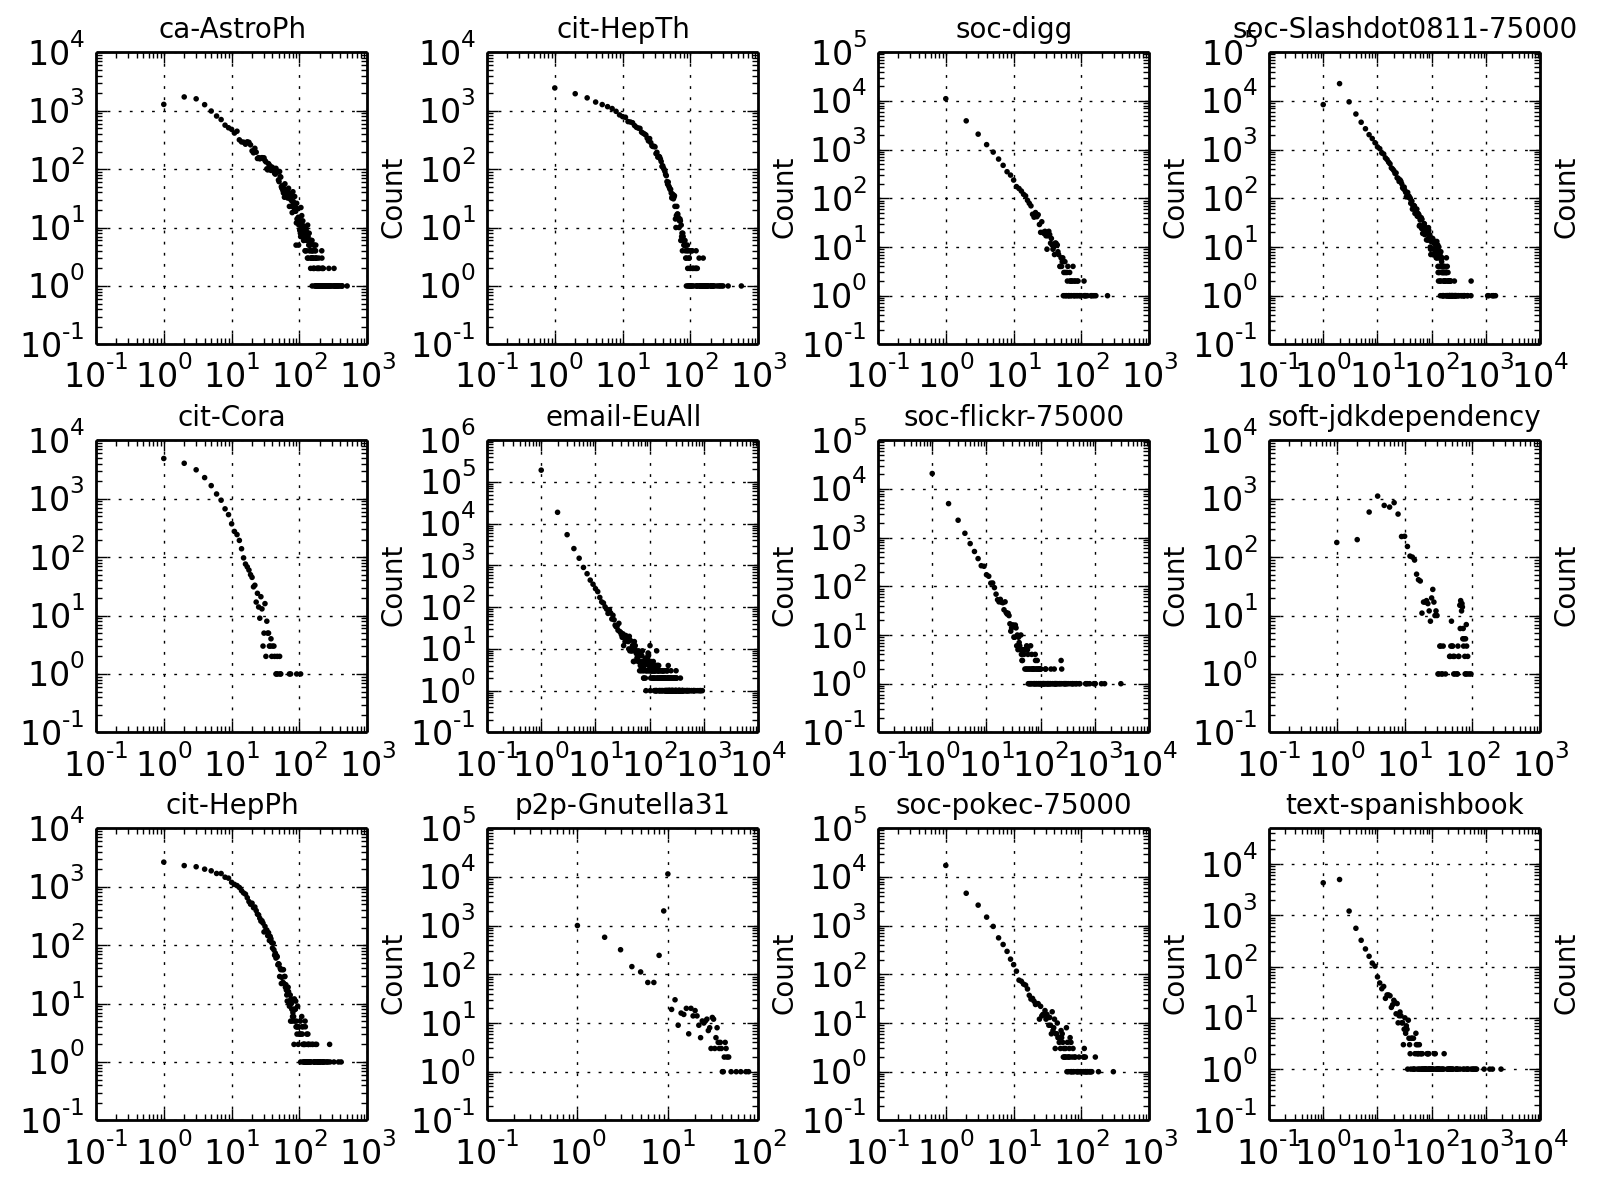
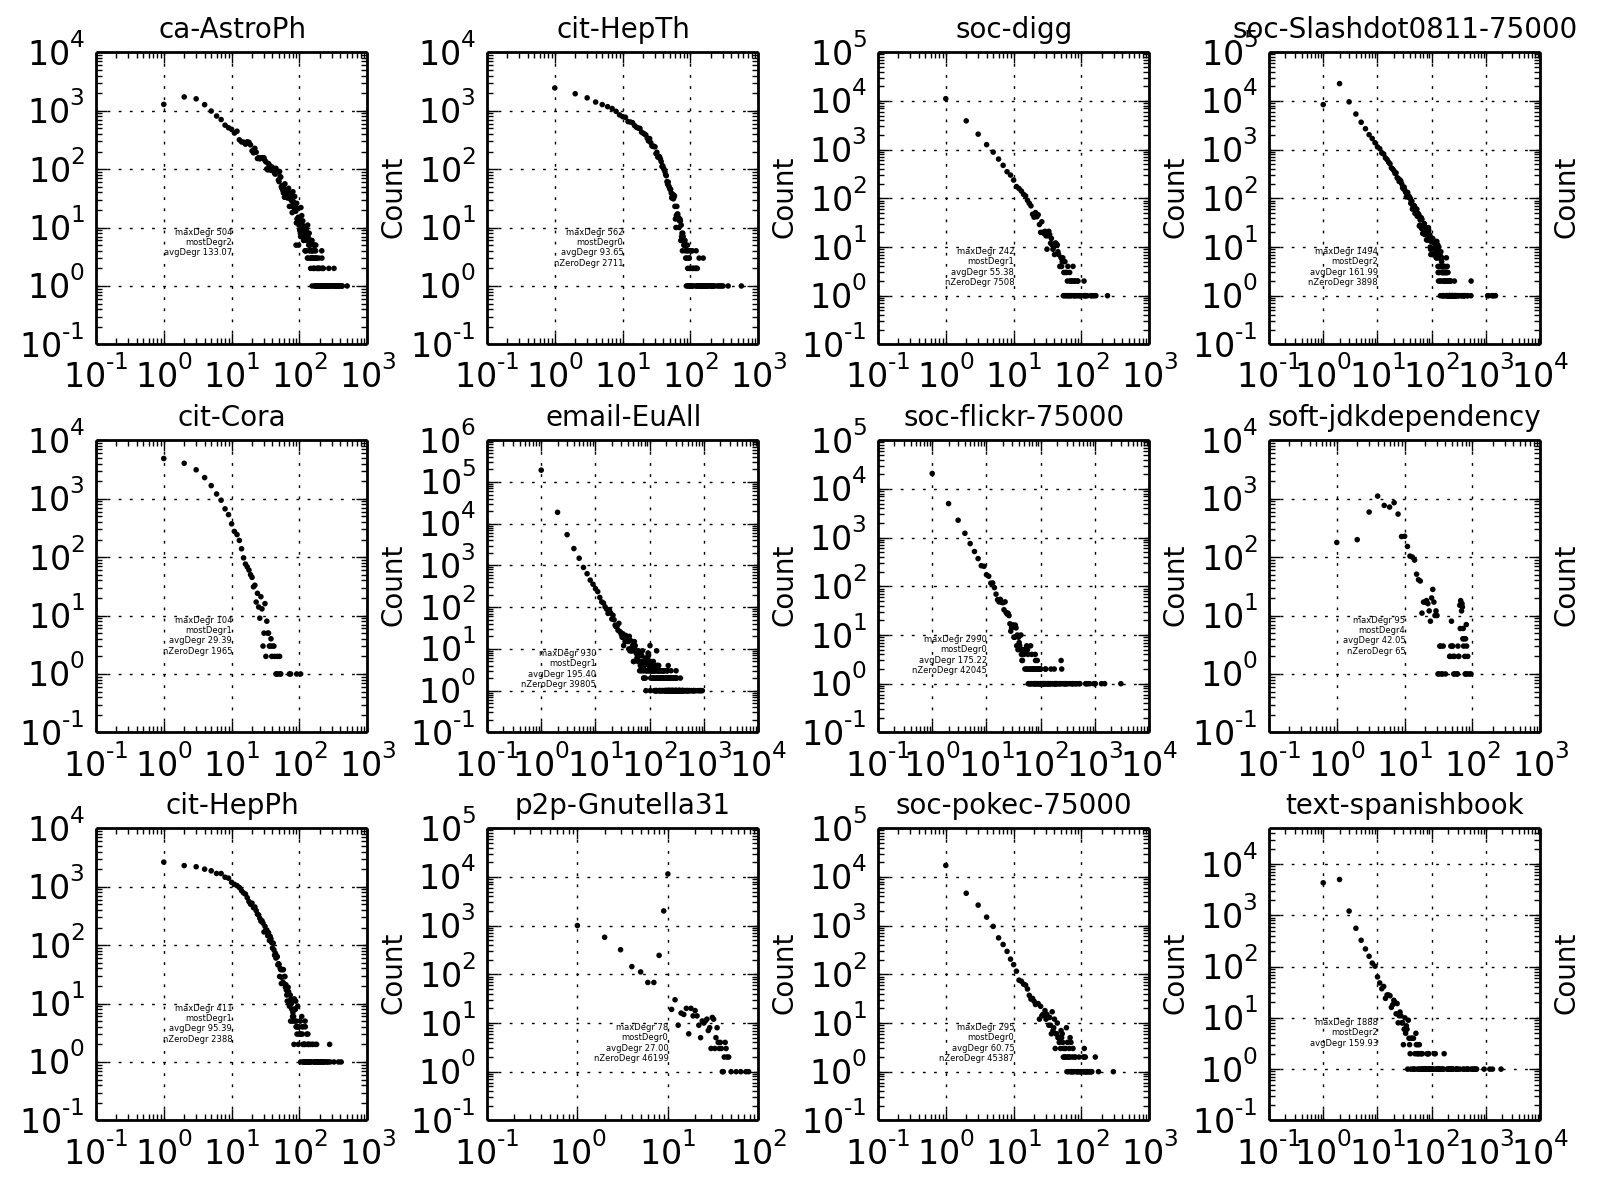
add data colloection and analysis

diff --git a/lib/plotAll.py b/lib/plotAll.py
@@ -18,6 +18,31 @@ def isDirected(name):
  			return True
  	return False
 
+def calDegreeStat(degree, count):
+	#find max degree
+	mdegree = max(degree)
+	#find degree with most count
+	indMCount = count.index(max(count))
+	#calculate average degree
+	avgDegree = float(sum(degree))/float(len(degree))
+	#calculate the zero degree
+	res = "maxDegr %d\nmostDegr%d\navgDegr %.2f"\
+	%(mdegree, degree[indMCount], avgDegree)
+	if 0 in degree:
+		res = "%s \nnZeroDegr %d"%(res, count[degree.index(0)])
+	#print res
+	return res
+
+def calStatComp(comp, count):
+	if not comp:
+		return None 
+	size = sum(count)
+	mcomp = max(comp)
+	res = "compSize %d\nmaxComp%d\n"\
+	%(size, mcomp)
+	return res
+
+
 def plotDegree(dirs, path1, path2, plt, fig, ax):
 	ox = 1
 	oy = 1
@@ -40,9 +65,11 @@ def plotDegree(dirs, path1, path2, plt, fig, ax):
 		for key in od:
 			x.append(key)
 			y.append(lists[key])
+		msg = calDegreeStat(x,y)
 		#print x
 		#print y
-		renderScatter(x, y, 'Degree distribution', 'Degree', 'Count', thisDir[7:-4], ox-1, oy-1, plt, fig, ax)
+		renderScatter(x, y, 'Degree distribution', 'Degree', 'Count', \
+			thisDir[7:-4], ox-1, oy-1, plt, fig, ax, message = msg)
 		if ox == 5:
 			ox = 1
 			oy = oy + 1
@@ -77,7 +104,10 @@ def plotIndeg(dirs, path1, path2, plt, fig, ax):
 			y.append(lists[key])
 		#print x
 		#print y
-		renderScatter(x, y, 'IndDegree distribution', 'indegree', 'Count', thisDir[7:-4], ox-1, oy-1, plt, fig, ax)
+		#print thisDir
+		msg = calDegreeStat(x, y)
+		renderScatter(x, y, 'IndDegree distribution', 'indegree', 'Count', \
+			thisDir[7:-4], ox-1, oy-1, plt, fig, ax, message=msg)
 		if ox == 3:
 			ox = 1
 			oy = oy + 1
@@ -112,7 +142,9 @@ def plotOutdeg(dirs, path1, path2, plt, fig, ax):
 			y.append(lists[key])
 		#print x
 		#print y
-		renderScatter(x, y, 'Outdegree distribution', 'OutDegree', 'Count', thisDir[7:-4], ox-1, oy-1, plt, fig, ax)
+		msg = calDegreeStat(x, y)
+		renderScatter(x, y, 'Outdegree distribution', 'OutDegree', \
+			'Count', thisDir[7:-4], ox-1, oy-1, plt, fig, ax, message=msg)
 		if ox == 3:
 			ox = 1
 			oy = oy + 1
@@ -138,7 +170,13 @@ def plotComp(dirs, path1, path2, plt, fig, ax):
 		for key in od:
 			x.append(key)
 			y.append(alists[key])
-		renderScatter(x, y, 'kcore', 'kcore', 'Count', thisDir[7:-4], ox-1, oy-1, plt, fig, ax, False)
+		msg = calStatComp(x, y)
+		if msg is not None:
+			renderScatter(x, y, 'kcore', 'kcore', 'Count', thisDir[7:-4], ox-1,\
+		 oy-1, plt, fig, ax, False, message=msg, annoX = max(x), annoY = max(y))
+		else:
+			renderScatter(x, y, 'kcore', 'kcore', 'Count', thisDir[7:-4], ox-1,\
+		 oy-1, plt, fig, ax, False)
 		if ox == 5:
 			ox = 1
 			oy = oy + 1
@@ -163,10 +201,11 @@ def plotPagerank(dirs, path1, path2, plt, fig, ax):
 				y.append(float(words[1]))
 		x = [i+1 for i in range(len(y))]
 		y = sorted(y, reverse=True)
-		print len(y)
+		#print len(y)
 		#print x
 		#print y
-		render(x, y, 'pagerank', 'pagerank', 'Count', thisDir[7:-4], ox-1, oy-1, plt, fig, ax, False)
+		render(x, y, 'pagerank', 'pagerank', 'Count', thisDir[7:-4], ox-1,\
+		 oy-1, plt, fig, ax, False)
 		if ox == 5:
 			ox = 1
 			oy = oy + 1
@@ -175,14 +214,24 @@ def plotPagerank(dirs, path1, path2, plt, fig, ax):
 		ff.close()	
 
 
+def calCorr(x , y):
+	total = 0
+	xx = []
+	yy = []
+	for tid in x.keys():
+		xx.append(numpy.abs(x[tid]))
+		yy.append(numpy.abs(y[tid]))
+	return numpy.abs(numpy.corrcoef(xx, yy)[0][1])
+
+
 #draw out eigen value
 def plotEigen(dirs, path1, path2, plt, fig, ax):
 	ox = 1
 	oy = 1
 	for thisDir in dirs:
-		x = []
-		y = []
-		t = []
+		vectors = []
+		x = {}
+		vt = -1;
 		print join(path1, thisDir, path2)
 		ff = open(join(path1, thisDir, path2))
 		#name of the png
@@ -190,16 +239,46 @@ def plotEigen(dirs, path1, path2, plt, fig, ax):
 		for line in ff.readlines():
 			line = line.strip()
 			words = line.split(",")
-			if(len(words) > 2):
-				x.append(float(words[0]))
-				y.append(float(words[1]))
-		#for i in range(len(t)):
-		#	for j in range(len(t)):
-		#		x.append(t[i])
-		#		y.append(t[j])
-		#print x
-		#print y
-		renderScatter(x, y, 'eigenVector', 'eigenVector', 'pair', thisDir[7:-4], ox-1, oy-1, plt, fig, ax, False)
+			if len(words) == 3:
+				tid = words[0];
+				tcol = int(words[1])
+				tval = float(words[2])
+				if tcol is not vt:
+					vt = tcol
+					if x:
+						vectors.append(x.copy())
+					x = {}
+				x[tid] = tval
+		vectors.append(x.copy())
+		minTotal = 100000000
+		#print len(vectors)
+		for i in range(len(vectors)):
+			xi = vectors[i]
+			#print xi
+			#raw_input()
+			for j in range(i+1, len(vectors)):
+				xj = vectors[j]
+				#print xj 
+				#raw_input()
+				total = calCorr(xi, xj)
+				#print numpy.corrcoef(xi,xj)
+				#total = numpy.corrcoef(xi,xj)[0][1]
+				#print total
+				if total < minTotal:
+					minTotal = total
+					mx = xi
+					my = xj
+		#for the test
+		#mx = vectors[1]
+		#my = vectors[2]
+		xx = []
+		yy = []
+		for tid in mx.keys():
+			#if mx[tid] < 0.2 and my[tid] < 0.2:
+			xx.append(mx[tid])
+			yy.append(my[tid])
+		renderScatter(xx, yy, 'eigenVector', 'eigenVector', 'pair', \
+			thisDir[7:-4], ox-1, oy-1, plt, fig, ax, False, False)
 		if ox == 5:
 			ox = 1
 			oy = oy + 1
@@ -240,9 +319,8 @@ def mergeList(oriList):
 def render(x, y, title, xlabel, ylabel, fileName, subX, subY, plt, fig, ax, setFlag = True):
 	x = numpy.array(x)
 	y = numpy.array(y)
-
-	print subX
-	print subY
+	#print subX
+	#print subY
 	ax[subX, subY].set_xscale("log")
 	ax[subX, subY].set_yscale("log")
 	#ax[subX, subY].yaxis.tick_right()
@@ -261,14 +339,17 @@ def render(x, y, title, xlabel, ylabel, fileName, subX, subY, plt, fig, ax, setF
 
 
 #plot the result
-def renderScatter(x, y, title, xlabel, ylabel, fileName, subX, subY, plt, fig, ax, setFlag = True):
+def renderScatter(x, y, title, xlabel, ylabel, fileName, subX,\
+ subY, plt, fig, ax, setFlag = True, logScale = True, message = None, \
+ annoX=10, annoY=10):
 	x = numpy.array(x)
 	y = numpy.array(y)
 
 	#print subX
 	#print subY
-	ax[subX, subY].set_xscale("log")
-	ax[subX, subY].set_yscale("log")
+	if logScale:
+		ax[subX, subY].set_xscale("log")
+		ax[subX, subY].set_yscale("log")
 	#ax[subX, subY].yaxis.tick_right()
 	#ax.set_xticks(numpy.arange(0,1,0.1))
 	if setFlag:
@@ -282,6 +363,11 @@ def renderScatter(x, y, title, xlabel, ylabel, fileName, subX, subY, plt, fig, a
 	#ax[subX, subY].xlabel(xlabel)
 	ax[subX, subY].yaxis.set_label_position("right")
 	ax[subX, subY].set_ylabel(ylabel, fontsize=10)
+	if message is not None:
+		# ax[subX, subY].annotate(message, xy = (float(sum(x))/float(len(x))/3.0*5.0,max(y)), \
+		# 	fontsize = 3,horizontalalignment='right', verticalalignment='top')
+		ax[subX, subY].annotate(message, xy = (annoX,annoY), \
+		 	fontsize = 3,horizontalalignment='right', verticalalignment='top')
 #	fig.show()
 #	fig.savefig(fileName, dpi=200)
 
@@ -297,7 +383,7 @@ def plotTri(targetDir, plt, fig, axx):
 				words = line.split("=")
 				x.append(float(words[1].strip()))
 		ff.close()
-	print x
+	#print x
 	#ax.hist(x)
 	#t = [i for i in range(len(x))]
 	#ax.plot(t, x)
